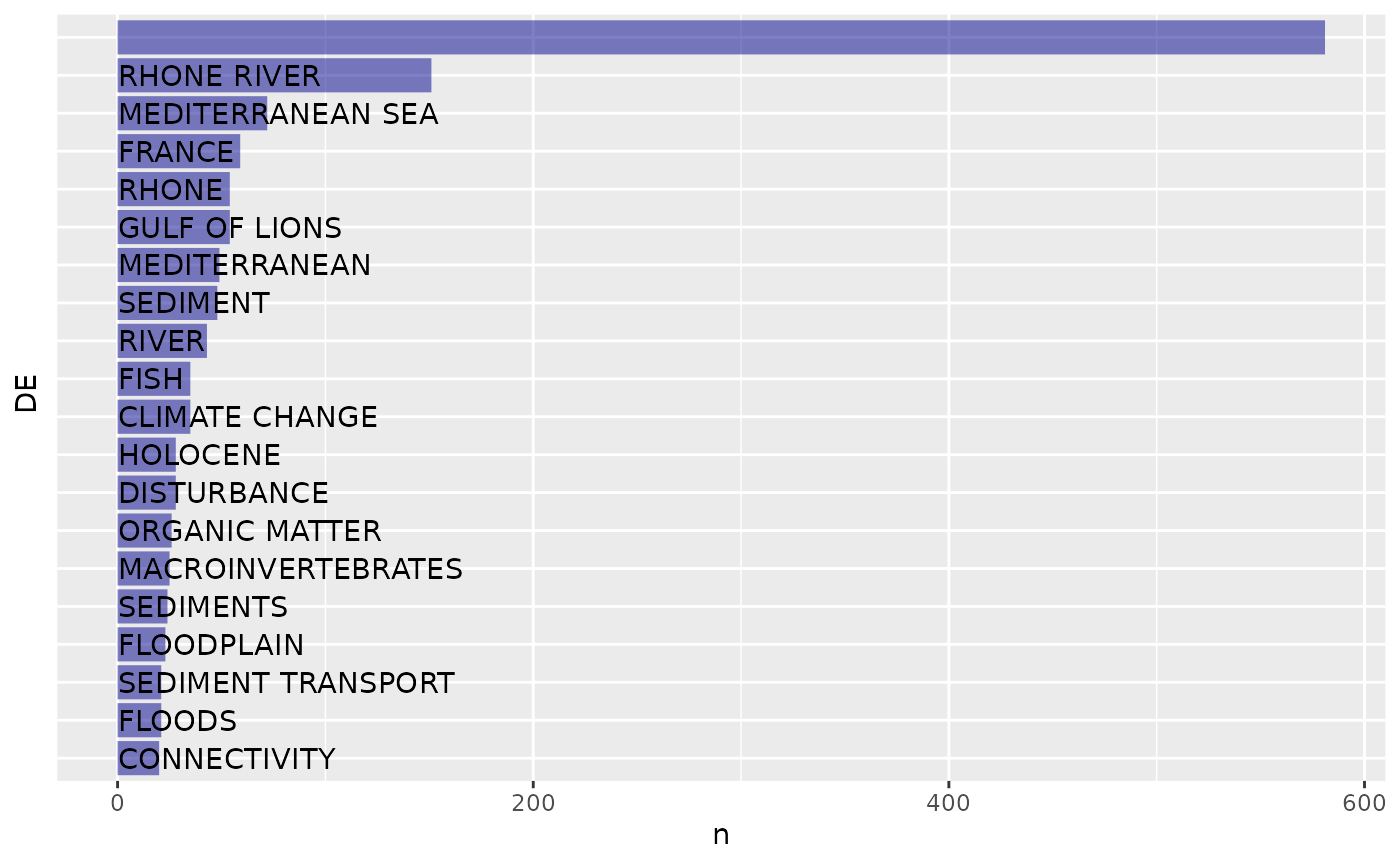
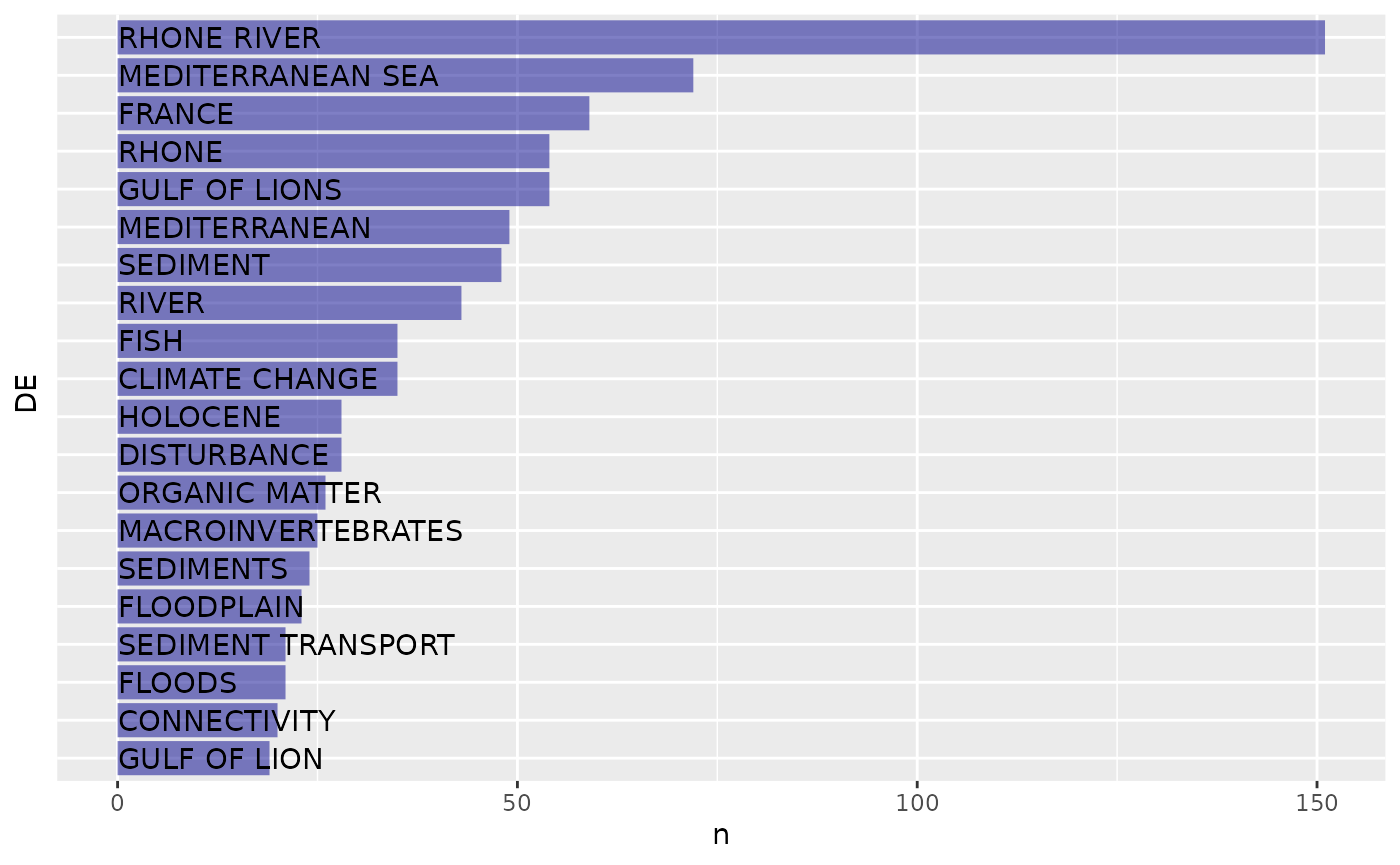
update doc

diff --git a/docs/articles/produce_and_display_metrics.html b/docs/articles/produce_and_display_metrics.html
@@ -260,31 +260,30 @@ most frequently used keywords</p>
 <span><span class="co">#&gt; <span style="color: #949494;"># A tibble: 20 × 2</span></span></span>
 <span><span class="co">#&gt;    DE                     n</span></span>
 <span><span class="co">#&gt;    <span style="color: #949494; font-style: italic;">&lt;chr&gt;</span>              <span style="color: #949494; font-style: italic;">&lt;int&gt;</span></span></span>
-<span><span class="co">#&gt; <span style="color: #BCBCBC;"> 1</span> <span style="color: #BB0000;">NA</span>                   581</span></span>
-<span><span class="co">#&gt; <span style="color: #BCBCBC;"> 2</span> RHONE RIVER          151</span></span>
-<span><span class="co">#&gt; <span style="color: #BCBCBC;"> 3</span> MEDITERRANEAN SEA     72</span></span>
-<span><span class="co">#&gt; <span style="color: #BCBCBC;"> 4</span> FRANCE                59</span></span>
-<span><span class="co">#&gt; <span style="color: #BCBCBC;"> 5</span> GULF OF LIONS         54</span></span>
-<span><span class="co">#&gt; <span style="color: #BCBCBC;"> 6</span> RHONE                 54</span></span>
-<span><span class="co">#&gt; <span style="color: #BCBCBC;"> 7</span> MEDITERRANEAN         49</span></span>
-<span><span class="co">#&gt; <span style="color: #BCBCBC;"> 8</span> SEDIMENT              48</span></span>
-<span><span class="co">#&gt; <span style="color: #BCBCBC;"> 9</span> RIVER                 43</span></span>
-<span><span class="co">#&gt; <span style="color: #BCBCBC;">10</span> CLIMATE CHANGE        35</span></span>
-<span><span class="co">#&gt; <span style="color: #BCBCBC;">11</span> FISH                  35</span></span>
-<span><span class="co">#&gt; <span style="color: #BCBCBC;">12</span> DISTURBANCE           28</span></span>
-<span><span class="co">#&gt; <span style="color: #BCBCBC;">13</span> HOLOCENE              28</span></span>
-<span><span class="co">#&gt; <span style="color: #BCBCBC;">14</span> ORGANIC MATTER        26</span></span>
-<span><span class="co">#&gt; <span style="color: #BCBCBC;">15</span> MACROINVERTEBRATES    25</span></span>
-<span><span class="co">#&gt; <span style="color: #BCBCBC;">16</span> SEDIMENTS             24</span></span>
-<span><span class="co">#&gt; <span style="color: #BCBCBC;">17</span> FLOODPLAIN            23</span></span>
-<span><span class="co">#&gt; <span style="color: #BCBCBC;">18</span> FLOODS                21</span></span>
-<span><span class="co">#&gt; <span style="color: #BCBCBC;">19</span> SEDIMENT TRANSPORT    21</span></span>
-<span><span class="co">#&gt; <span style="color: #BCBCBC;">20</span> CONNECTIVITY          20</span></span></code></pre></div>
+<span><span class="co">#&gt; <span style="color: #BCBCBC;"> 1</span> RHONE RIVER          151</span></span>
+<span><span class="co">#&gt; <span style="color: #BCBCBC;"> 2</span> MEDITERRANEAN SEA     72</span></span>
+<span><span class="co">#&gt; <span style="color: #BCBCBC;"> 3</span> FRANCE                59</span></span>
+<span><span class="co">#&gt; <span style="color: #BCBCBC;"> 4</span> GULF OF LIONS         54</span></span>
+<span><span class="co">#&gt; <span style="color: #BCBCBC;"> 5</span> RHONE                 54</span></span>
+<span><span class="co">#&gt; <span style="color: #BCBCBC;"> 6</span> MEDITERRANEAN         49</span></span>
+<span><span class="co">#&gt; <span style="color: #BCBCBC;"> 7</span> SEDIMENT              48</span></span>
+<span><span class="co">#&gt; <span style="color: #BCBCBC;"> 8</span> RIVER                 43</span></span>
+<span><span class="co">#&gt; <span style="color: #BCBCBC;"> 9</span> CLIMATE CHANGE        35</span></span>
+<span><span class="co">#&gt; <span style="color: #BCBCBC;">10</span> FISH                  35</span></span>
+<span><span class="co">#&gt; <span style="color: #BCBCBC;">11</span> DISTURBANCE           28</span></span>
+<span><span class="co">#&gt; <span style="color: #BCBCBC;">12</span> HOLOCENE              28</span></span>
+<span><span class="co">#&gt; <span style="color: #BCBCBC;">13</span> ORGANIC MATTER        26</span></span>
+<span><span class="co">#&gt; <span style="color: #BCBCBC;">14</span> MACROINVERTEBRATES    25</span></span>
+<span><span class="co">#&gt; <span style="color: #BCBCBC;">15</span> SEDIMENTS             24</span></span>
+<span><span class="co">#&gt; <span style="color: #BCBCBC;">16</span> FLOODPLAIN            23</span></span>
+<span><span class="co">#&gt; <span style="color: #BCBCBC;">17</span> FLOODS                21</span></span>
+<span><span class="co">#&gt; <span style="color: #BCBCBC;">18</span> SEDIMENT TRANSPORT    21</span></span>
+<span><span class="co">#&gt; <span style="color: #BCBCBC;">19</span> CONNECTIVITY          20</span></span>
+<span><span class="co">#&gt; <span style="color: #BCBCBC;">20</span> GULF OF LION          19</span></span></code></pre></div>
 <p>The most frequent keywords can then be displayed as a graphic either
 directly through a ggplot2 plot or using package <a href="%60mixr%60">https://github.com/lvaudor/mixr</a>.</p>
 <div class="sourceCode" id="cb10"><pre class="downlit sourceCode r">
-<code class="sourceCode R"><span><span class="fu">mixr</span><span class="fu">::</span><span class="fu"><a href="https://rdrr.io/pkg/mixr/man/plot_frequencies.html" class="external-link">plot_frequencies</a></span><span class="op">(</span><span class="va">tib</span>,cat<span class="op">=</span><span class="va">DE</span>,frequency<span class="op">=</span><span class="va">n</span>,fill_fixed<span class="op">=</span><span class="st">"dark blue"</span><span class="op">)</span></span>
-<span><span class="co">#&gt; Warning: Removed 1 rows containing missing values (`geom_text()`).</span></span></code></pre></div>
+<code class="sourceCode R"><span><span class="fu">mixr</span><span class="fu">::</span><span class="fu"><a href="https://rdrr.io/pkg/mixr/man/plot_frequencies.html" class="external-link">plot_frequencies</a></span><span class="op">(</span><span class="va">tib</span>,cat<span class="op">=</span><span class="va">DE</span>,frequency<span class="op">=</span><span class="va">n</span>,fill_fixed<span class="op">=</span><span class="st">"dark blue"</span><span class="op">)</span></span></code></pre></div>
 <p><img src="produce_and_display_metrics_files/figure-html/plot_most_frequent_keywords-1.png" width="700"></p>
 </div>
 <div class="section level3">

diff --git a/docs/articles/search_and_format.html b/docs/articles/search_and_format.html
@@ -152,11 +152,11 @@ bibou’s function <code><a href="../reference/bib_merge_files.html">bib_merge_f
 <code class="sourceCode R"><span><span class="va">bibtex_file_1</span><span class="op">=</span><span class="fu"><a href="https://rdrr.io/r/base/system.file.html" class="external-link">system.file</a></span><span class="op">(</span><span class="st">"savedrecs(1).bib"</span>,package<span class="op">=</span><span class="st">"bibou"</span><span class="op">)</span></span>
 <span><span class="va">bibtex_files</span><span class="op">=</span><span class="fu">purrr</span><span class="fu">::</span><span class="fu"><a href="https://purrr.tidyverse.org/reference/map.html" class="external-link">map_chr</a></span><span class="op">(</span><span class="fu"><a href="https://rdrr.io/r/base/character.html" class="external-link">as.character</a></span><span class="op">(</span><span class="fl">1</span><span class="op">:</span><span class="fl">5</span><span class="op">)</span>,<span class="op">~</span><span class="fu">stringr</span><span class="fu">::</span><span class="fu"><a href="https://stringr.tidyverse.org/reference/str_replace.html" class="external-link">str_replace</a></span><span class="op">(</span><span class="va">bibtex_file_1</span>,<span class="st">"1(?=\\).bib)"</span>,<span class="va">.x</span><span class="op">)</span><span class="op">)</span></span>
 <span><span class="va">bibtex_files</span></span>
-<span><span class="co">#&gt; [1] "/tmp/RtmpMHeT5l/temp_libpath73acc7198a4/bibou/savedrecs(1).bib"</span></span>
-<span><span class="co">#&gt; [2] "/tmp/RtmpMHeT5l/temp_libpath73acc7198a4/bibou/savedrecs(2).bib"</span></span>
-<span><span class="co">#&gt; [3] "/tmp/RtmpMHeT5l/temp_libpath73acc7198a4/bibou/savedrecs(3).bib"</span></span>
-<span><span class="co">#&gt; [4] "/tmp/RtmpMHeT5l/temp_libpath73acc7198a4/bibou/savedrecs(4).bib"</span></span>
-<span><span class="co">#&gt; [5] "/tmp/RtmpMHeT5l/temp_libpath73acc7198a4/bibou/savedrecs(5).bib"</span></span>
+<span><span class="co">#&gt; [1] "/tmp/RtmpWs9RVN/temp_libpath84cc28429a80/bibou/savedrecs(1).bib"</span></span>
+<span><span class="co">#&gt; [2] "/tmp/RtmpWs9RVN/temp_libpath84cc28429a80/bibou/savedrecs(2).bib"</span></span>
+<span><span class="co">#&gt; [3] "/tmp/RtmpWs9RVN/temp_libpath84cc28429a80/bibou/savedrecs(3).bib"</span></span>
+<span><span class="co">#&gt; [4] "/tmp/RtmpWs9RVN/temp_libpath84cc28429a80/bibou/savedrecs(4).bib"</span></span>
+<span><span class="co">#&gt; [5] "/tmp/RtmpWs9RVN/temp_libpath84cc28429a80/bibou/savedrecs(5).bib"</span></span>
 <span><span class="fu"><a href="../reference/bib_merge_files.html">bib_merge_files</a></span><span class="op">(</span><span class="va">bibtex_files</span>,</span>
 <span>                to<span class="op">=</span><span class="st">"data/savedrecs_merged.bib"</span><span class="op">)</span></span></code></pre></div>
 <p>When exporting from Web of Science in several batches, one can
